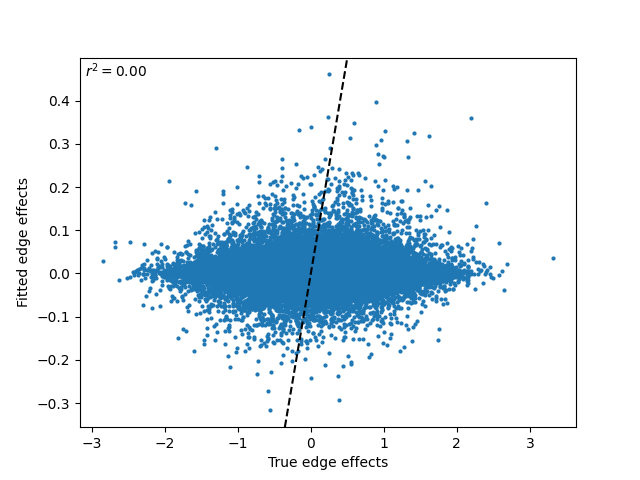
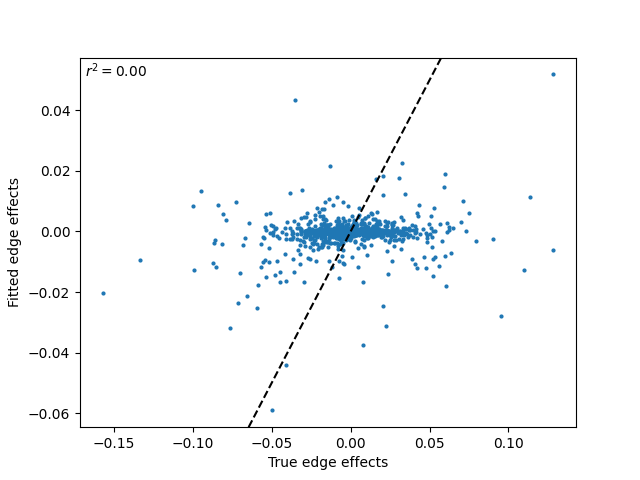
Optimization

diff --git a/ste_draft/optimization.py b/ste_draft/optimization.py
@@ -1,43 +1,11 @@
 import numpy as np
-import numba
-import msprime
+from typing import Callable
 
-from likelihoods import stochastic_gradient_reml, exact_loglikelihood_reml
+from likelihoods import stochastic_gradient_reml
 from linear_operators import TraitCovariance, NystromPreconditioner
 
-num_threads = 4
-numba.set_num_threads(num_threads)
-
-rng = np.random.default_rng(1)
-
-n_samples = 50
-n_pops = 10
-s_length = 1e5
-ne = 1e4
-island_model = msprime.Demography.island_model([ne] * n_pops, 1e-5 / n_pops)
-for i in range(1, n_pops):
-    island_model.add_mass_migration(time=2*ne, source=i, dest=0, proportion=1.0)
-ts = msprime.sim_ancestry(
-    samples={f"pop_{i}": n_samples for i in range(n_pops)},
-    recombination_rate=1e-8,
-    sequence_length=s_length,
-    demography=island_model,
-    random_seed=1024,
-)
-
-covariance = TraitCovariance(ts, mutation_rate=1e-10)
-preconditioner = NystromPreconditioner(covariance, rank=10, samples=200, seed=1)
-
-true_tau = 0.5
-true_sigma = 1.5
-rng = np.random.default_rng(1024)
-_, _, random_effects = covariance.simulate(true_sigma, true_tau, rng)
-covariates = np.random.randn(ts.num_individuals, 5)
-true_beta = np.random.randn(5)
-traits = covariates @ true_beta + random_effects
     
-
-def estimate_variance_components(
+def optimize_variance_components(
     sigma: float, 
     tau: float, 
     y: np.ndarray, 
@@ -49,59 +17,37 @@ def estimate_variance_components(
     decay: float = 0.3, 
     epsilon: float = 1e-3, 
     maxitt: int = 100,
-    callback=None,
+    verbose: bool = True,
+    callback: Callable = None,
 ):
+    """
+    Estimate variance components by stochastic gradient descent on REML
+    """
 
     X, _ = np.linalg.qr(X)  # orthonormalise (could use R to get back beta on correct scale)
 
-    # AdaDelta (https://arxiv.org/pdf/1212.5701) but using full Hessian approximation
-    params = np.array([sigma, tau])
-    regularise = np.eye(params.size) * epsilon
-    running_average = params
-    numerator = np.zeros_like(regularise)
-    denominator = np.zeros_like(regularise)
+    # AdaDelta (https://arxiv.org/pdf/1212.5701)
+    state = np.array([sigma, tau])
+    running_mean = state
+    epsilon = np.eye(state.size) * epsilon
+    numerator = np.zeros_like(epsilon)
+    denominator = np.zeros_like(epsilon)
     for itt in range(maxitt):
-        print(f"Iteration {itt}, {params.round(2)}, {running_average.round(2)}")
-        assert np.all(params > 0)
-        gradient = -2 * stochastic_gradient_reml(*params, y, X, covariance, preconditioner, num_samples=num_samples, rng=rng)
+        assert np.all(state > 0)
+        gradient = -2 * stochastic_gradient_reml(*state, y, X, covariance, preconditioner, num_samples=num_samples, rng=rng)
         gradient = np.expand_dims(gradient, 1)
         denominator = (1 - decay) * denominator + decay * gradient @ gradient.T
-        update = -np.linalg.cholesky(numerator + regularise) @ \
-            np.linalg.solve(np.linalg.cholesky(denominator + regularise), gradient)
+        # full hessian approximation:
+        #update = -np.linalg.cholesky(numerator + epsilon) @ \
+        #    np.linalg.solve(np.linalg.cholesky(denominator + epsilon), gradient)
+        update = -np.sqrt(np.diag(numerator + epsilon)).reshape(-1, 1) / \
+           np.sqrt(np.diag(denominator + epsilon)).reshape(-1, 1) * gradient
         numerator = (1 - decay) * numerator + decay * update @ update.T
-        params = params + update.squeeze()
-        running_average = (1 - decay) * running_average + decay * params
-        if callback is not None: callback(running_average)
-        # could exit based on norm of numerator or denominator
-    sigma, tau = running_average
+        state = state + update.squeeze()
+        running_mean = (1 - decay) * running_mean + decay * state
+        if verbose: print(f"Iteration {itt}: {state.round(2)}, {running_mean.round(2)}")
+        if callback is not None: callback(running_mean)
+        # TODO: could exit based on norm of numerator or denominator
+    sigma, tau = running_mean
 
     return sigma, tau
-
-
-
-grid_sigma = np.linspace(0.8, 2.6, 25)
-grid_tau = np.linspace(0.2, 2.0, 25)
-grid_loglik = np.zeros((grid_sigma.size, grid_tau.size))
-for i, tau in enumerate(grid_tau):
-    for j, sigma in enumerate(grid_sigma):
-        grid_loglik[i, j] = exact_loglikelihood_reml(sigma, tau, traits, covariates, covariance, use_qr=True)
-
-trajectory = []
-estimate_variance_components(2.0, 0.2, traits, covariates, covariance, preconditioner, num_samples=5, rng=rng, callback=lambda x: trajectory.append(x))
-
-import matplotlib.pyplot as plt
-mesh = plt.pcolormesh(
-    np.append(grid_sigma - 0.05, grid_sigma[-1] + 0.05),
-    np.append(grid_tau - 0.05, grid_tau[-1] + 0.05),
-    grid_loglik, 
-)
-plt.contour(grid_sigma, grid_tau, grid_loglik, colors="red")
-cbar = plt.colorbar(mesh)
-cbar.set_label("REML")
-for (xm, ym), (x, y) in zip(trajectory[:-1], trajectory[1:]):
-    plt.plot((xm, x), (ym, y), '-b')
-plt.plot(true_sigma, true_tau, 'xr')
-plt.xlabel("$\\sigma^2$")
-plt.ylabel("$\\tau^2$")
-plt.title(f"SGD on REML\n{covariance.dim} diploids, {covariance.factor_dim} edges, {covariates.shape[1]} covariates")
-plt.savefig("figs/optimization_reml.png")

diff --git a/ste_draft/benchmark_optimization.py b/ste_draft/benchmark_optimization.py
@@ -1,0 +1,82 @@
+import numpy as np
+import numba
+import msprime
+
+from likelihoods import exact_loglikelihood_reml
+from linear_operators import TraitCovariance, NystromPreconditioner
+from optimization import optimize_variance_components
+
+import matplotlib.pyplot as plt
+
+if __name__ == "__main__":
+    num_threads = 5
+    numba.set_num_threads(num_threads)
+    rng = np.random.default_rng(1)
+    
+    n_samples = 50
+    n_pops = 10
+    s_length = 1e5
+    ne = 1e4
+    island_model = msprime.Demography.island_model([ne] * n_pops, 1e-5 / n_pops)
+    for i in range(1, n_pops):
+        island_model.add_mass_migration(time=2*ne, source=i, dest=0, proportion=1.0)
+    ts = msprime.sim_ancestry(
+        samples={f"pop_{i}": n_samples for i in range(n_pops)},
+        recombination_rate=1e-8,
+        sequence_length=s_length,
+        demography=island_model,
+        random_seed=1024,
+    )
+    
+    covariance = TraitCovariance(ts, mutation_rate=1e-10)
+    preconditioner = NystromPreconditioner(covariance, rank=100, samples=200, seed=1)
+    
+    true_tau = 0.5
+    true_sigma = 1.5
+    rng = np.random.default_rng(1024)
+    _, _, random_effects = covariance.simulate(true_sigma, true_tau, rng)
+    covariates = np.random.randn(ts.num_individuals, 5)
+    true_beta = np.random.randn(5)
+    traits = covariates @ true_beta + random_effects
+    
+    # optimize, store SGD trajectory
+    epsilon = 1e-3  # acts like learning rate (regularises hessian inverse)
+    decay = 0.3  # forgetting rate for hessian approximation / running average
+    trajectory = []
+    optimize_variance_components(2.6, 0.2, traits, covariates, covariance, preconditioner, epsilon=epsilon, decay=decay, num_samples=5, rng=rng, callback=lambda x: trajectory.append(x))
+
+    # visualise error vs iteration count
+    truth = np.array([true_sigma, true_tau])
+    err = np.array([np.linalg.norm(x - truth) for x in trajectory])
+    plt.plot(np.arange(err.size), err, "-r")
+    plt.xlabel("Iteration")
+    plt.ylabel("$|\\hat{x} - x|_2$")
+    plt.title(f"SGD (AdaDelta) convergence\nepsilon: {epsilon}, decay: {decay}")
+    plt.savefig("figs/optimization_reml_convergence.png")
+    plt.clf()
+
+    # calculate exact objective over grid
+    grid_sigma = np.linspace(0.8, 2.6, 25)
+    grid_tau = np.linspace(0.2, 2.0, 25)
+    grid_loglik = np.zeros((grid_sigma.size, grid_tau.size))
+    for i, tau in enumerate(grid_tau):
+        for j, sigma in enumerate(grid_sigma):
+            grid_loglik[i, j] = exact_loglikelihood_reml(sigma, tau, traits, covariates, covariance, use_qr=True)
+    
+    # visualise SGD trajectory on exact likelihood surface
+    mesh = plt.pcolormesh(
+        np.append(grid_sigma - 0.05, grid_sigma[-1] + 0.05),
+        np.append(grid_tau - 0.05, grid_tau[-1] + 0.05),
+        grid_loglik, 
+    )
+    plt.contour(grid_sigma, grid_tau, grid_loglik, colors="red")
+    cbar = plt.colorbar(mesh)
+    cbar.set_label("REML")
+    for (xm, ym), (x, y) in zip(trajectory[:-1], trajectory[1:]):
+        plt.plot((xm, x), (ym, y), '-b')
+    plt.plot(true_sigma, true_tau, 'xr')
+    plt.xlabel("$\\sigma^2$")
+    plt.ylabel("$\\tau^2$")
+    plt.title(f"SGD on REML\n{covariance.dim} diploids, {covariance.factor_dim} edges, {covariates.shape[1]} covariates")
+    plt.savefig("figs/optimization_reml.png")
+    plt.clf()

diff --git a/ste_draft/benchmark_edge_effects.py b/ste_draft/benchmark_edge_effects.py
@@ -8,6 +8,7 @@ import scipy
 from genetic_values import edge_effects
 from linear_operators import TraitCovariance, NystromPreconditioner
 
+# something not working here?
 
 if __name__ == "__main__":
     
@@ -17,24 +18,35 @@ if __name__ == "__main__":
     ts = msprime.sim_ancestry(
         samples=1000,
         recombination_rate=1e-8,
-        sequence_length=1e6,
+        sequence_length=1e4, #1e6,
         population_size=1e4,
         random_seed=1024,
     )
     covariance = TraitCovariance(ts, mutation_rate=1e-10)
     preconditioner = NystromPreconditioner(covariance, rank=100, samples=200, seed=1)
+    print(covariance.factor_dim)
 
-    true_tau = 0.5
-    true_sigma = 4.0
+    true_tau = 2.5
+    true_sigma = 1.0
     rng = np.random.default_rng(1024)
-    true_edge_effects, _, traits = covariance.simulate(true_sigma, true_tau, rng)
+    true_edge_effects, true_genetic_values, traits = covariance.simulate(true_sigma, true_tau, rng)
 
-    predictions, var_predictions = edge_effects(true_sigma, true_tau, traits, covariance, preconditioner, rng=rng, num_samples=0)
-    std_dev = np.sqrt(var_predictions)
+    # DEBUG: test exact on small example
+    factor = scipy.sparse.linalg.spsolve(covariance.L, covariance.Z.T).toarray()
+    posterior_variance = factor @ factor.T / true_sigma + np.eye(covariance.factor_dim) / true_tau
+    est_edge_effects = np.linalg.solve(posterior_variance, factor @ traits / true_sigma)
+    print(np.std(est_edge_effects), np.std(true_edge_effects))
+    scaling = np.sqrt(covariance.D)
+    # /DEBUG
+
+    #predictions, var_predictions = edge_effects(true_sigma, true_tau, traits, covariance, preconditioner, rng=rng, num_samples=0)
+    #std_dev = np.sqrt(var_predictions)
     
-    plt.scatter(true_edge_effects, predictions, s=4)
+    #plt.scatter(true_edge_effects, predictions, s=4)
+    plt.scatter(true_edge_effects * scaling, est_edge_effects * scaling, s=4)
     plt.axline((0, 0), slope=1, linestyle="--", color="black")
-    plt.text(0.01, 0.99, f"$r^2 = {np.corrcoef(true_edge_effects, predictions)[0, 1] ** 2:.2f}$", transform=plt.gca().transAxes, ha='left', va='top')
+    #plt.text(0.01, 0.99, f"$r^2 = {np.corrcoef(true_edge_effects, predictions)[0, 1] ** 2:.2f}$", transform=plt.gca().transAxes, ha='left', va='top')
+    plt.text(0.01, 0.99, f"$r^2 = {np.corrcoef(true_edge_effects, est_edge_effects)[0, 1] ** 2:.2f}$", transform=plt.gca().transAxes, ha='left', va='top')
     plt.ylabel("Fitted edge effects")
     plt.xlabel("True edge effects")
     plt.savefig("figs/edge_effects_benchmark.png")

diff --git a/ste_draft/linear_operators.py b/ste_draft/linear_operators.py
@@ -93,13 +93,13 @@ class TraitCovariance:
 
     def __init__(self, tree_sequence: tskit.TreeSequence, mutation_rate: float = 1.0):
         ts = operations.split_upwards(tree_sequence)
-        mutational_target = mutation_rate * (ts.edges_right - ts.edges_left) * \
-            (ts.nodes_time[ts.edges_parent] - ts.nodes_time[ts.edges_child])
         self.dim = ts.num_individuals
         self.factor_dim = ts.num_edges
+        self.D = mutation_rate * (ts.edges_right - ts.edges_left) * \
+            (ts.nodes_time[ts.edges_parent] - ts.nodes_time[ts.edges_child])
         self.Z = matrices.edge_individual_matrix(ts).T
         self.L = scipy.sparse.identity(ts.num_edges) - matrices.edge_adjacency(ts).T
-        self.L = self.L.T @ scipy.sparse.diags_array(1 / np.sqrt(mutational_target))
+        self.L = self.L.T @ scipy.sparse.diags_array(1 / np.sqrt(self.D))
         self.L.sort_indices()
 
     def _factor(self, y: np.ndarray) -> np.ndarray:
@@ -192,6 +192,7 @@ class TraitCovariance:
         """
         Return (edge effects, genetic values, observed values)
         """
+        # TODO: should edge effects be scaled by noise
         if rng is None: rng = np.random.default_rng()
         u = rng.normal(size=(self.factor_dim, num_samples)) * np.sqrt(tau)
         g = self._factor(u)
